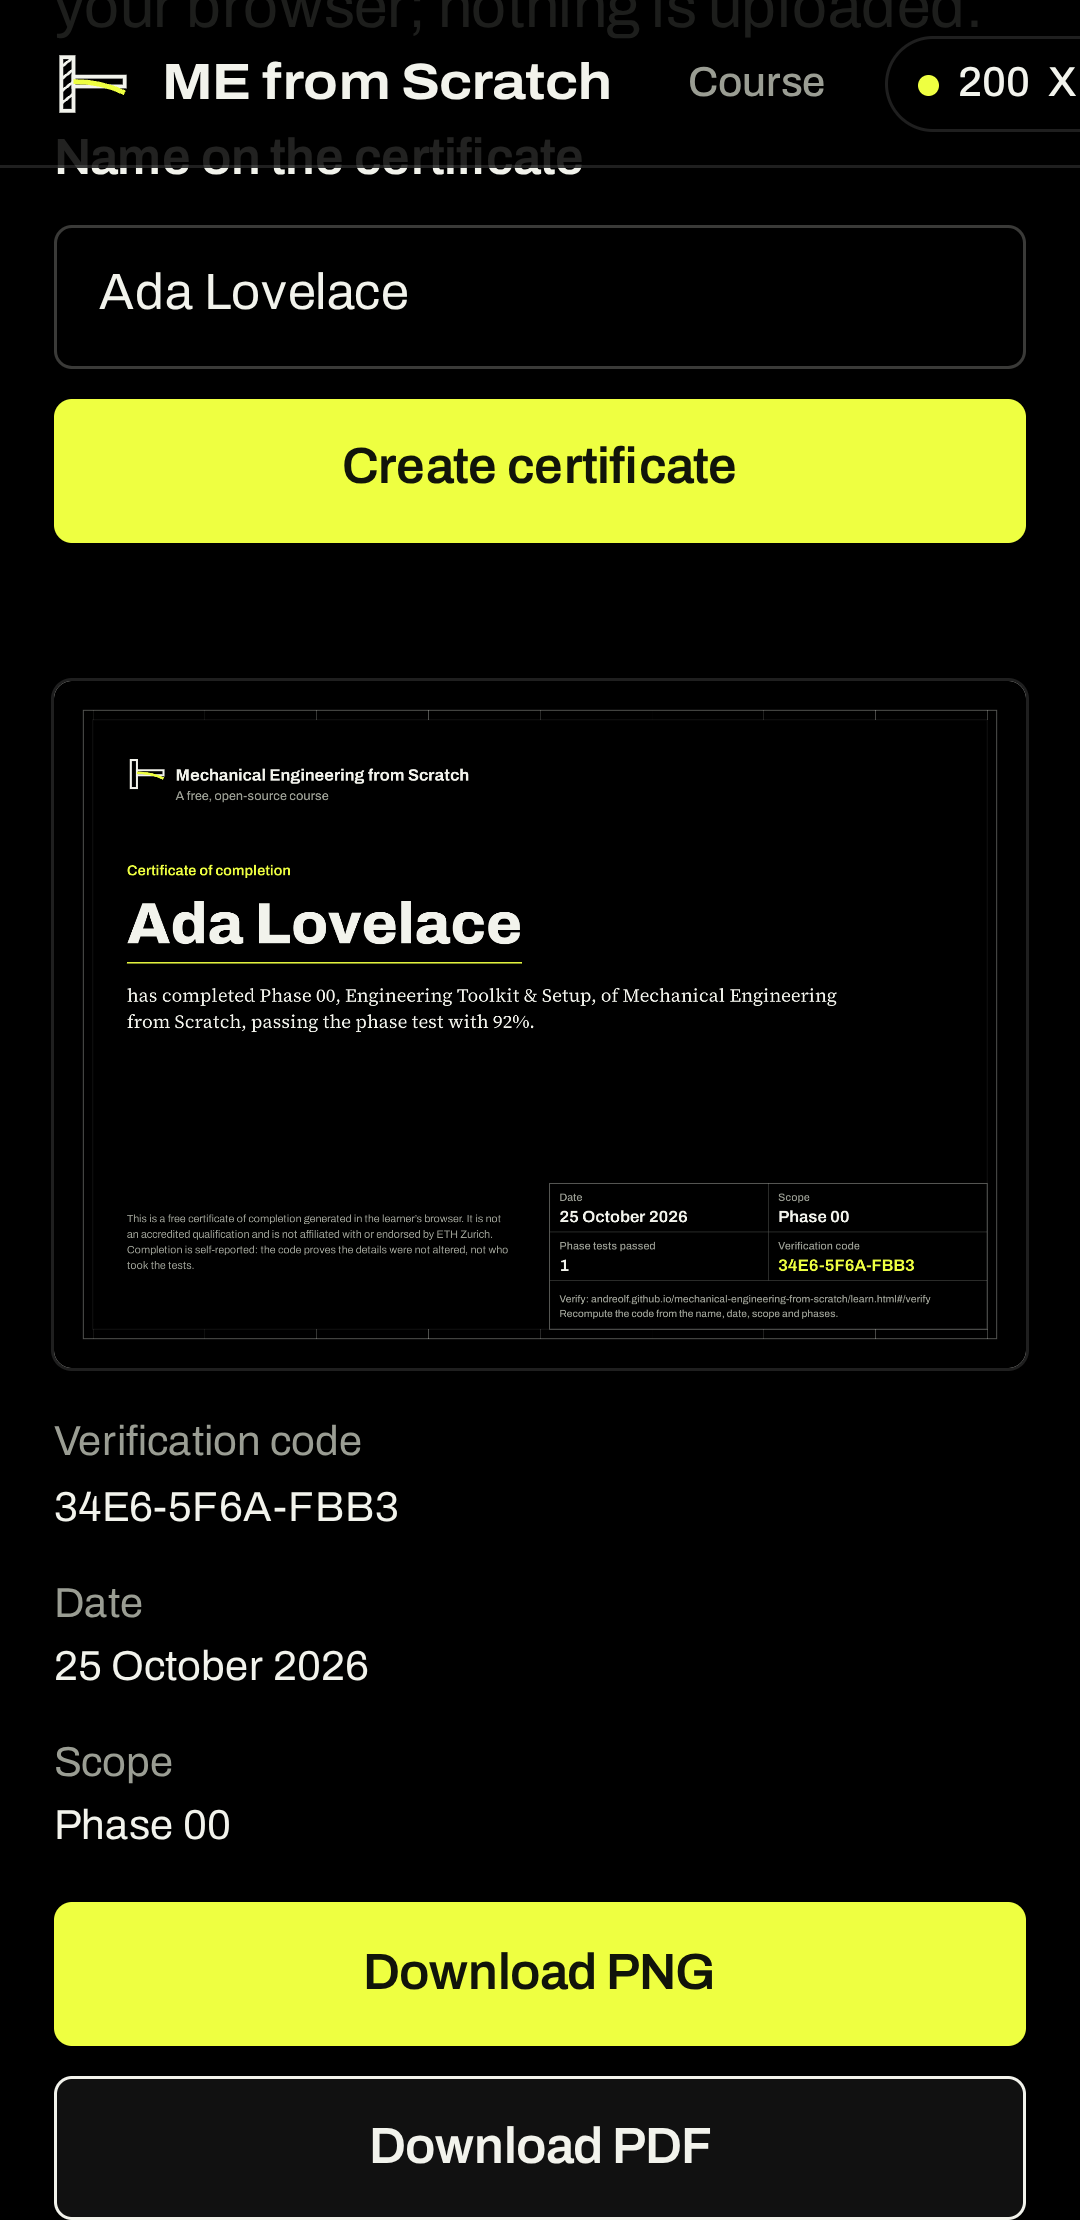
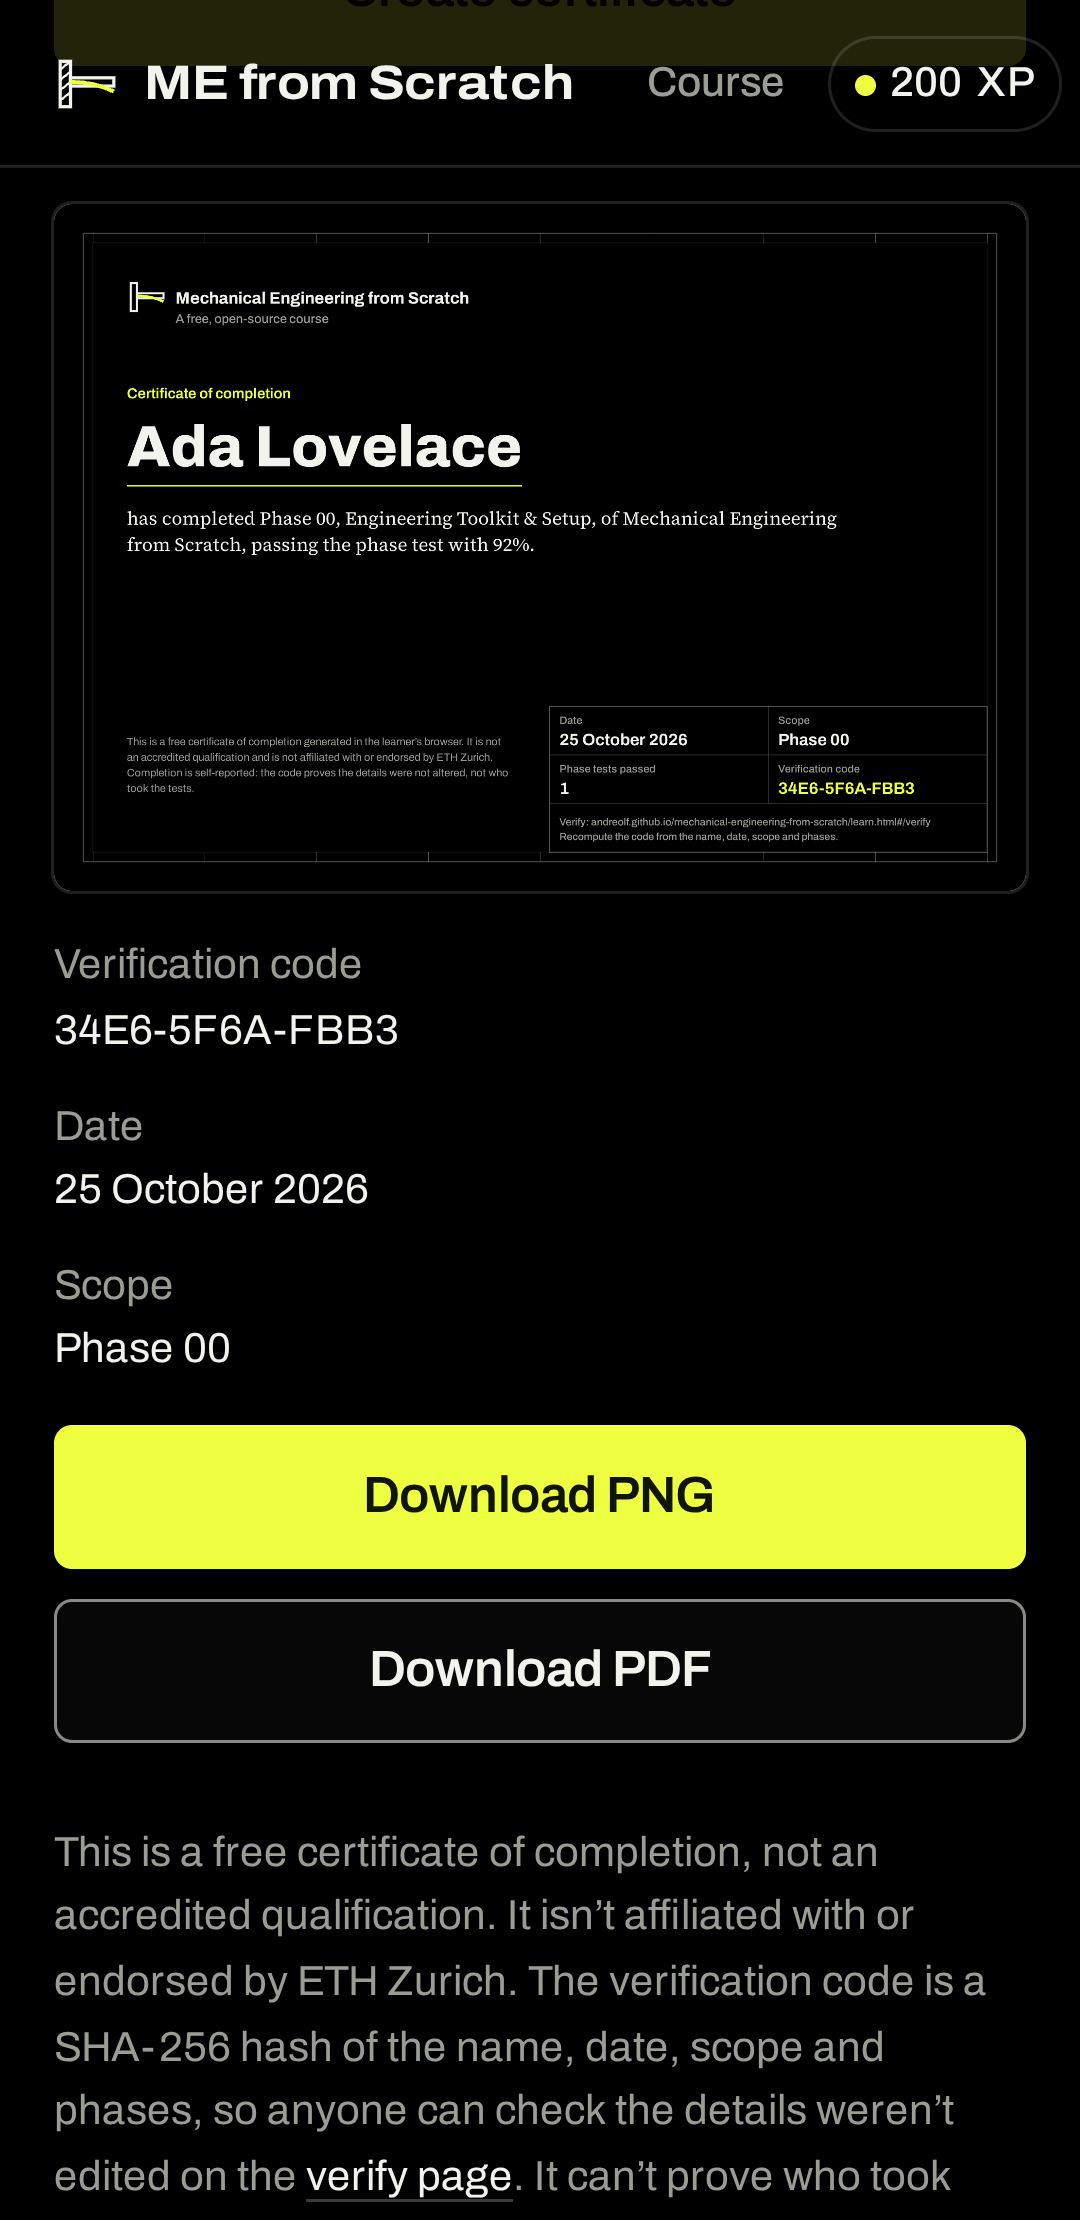
Fix 360px footer brand overflow and nav chip fit; stricter overflow check

diff --git a/site/tests/learn.spec.js b/site/tests/learn.spec.js
@@ -134,6 +134,9 @@ test.describe('Lessons, quizzes, progress and certificates', () => {
     expect(pdfBytes.subarray(-6).toString()).toContain('%%EOF');
     await page.locator('#cert-canvas').scrollIntoViewIfNeeded();
     expect(await noOverflow(page)).toBe(true);
+    // nav chip with 3-digit XP must stay inside the viewport
+    const chip = await page.locator('.xp-chip').first().boundingBox();
+    expect(chip.x + chip.width).toBeLessThanOrEqual(page.viewportSize().width - 4);
     await page.screenshot({ path: shot(info, 'certificate') });
     if (info.project.name === 'desktop') fs.writeFileSync(shot(info, 'certificate-image'), pngBytes);
     // verify page recomputes the same code from the printed details

diff --git a/site/tests/helpers.js b/site/tests/helpers.js
@@ -9,7 +9,9 @@ export function watchConsole(page) {
   return errors;
 }
 export async function noOverflow(page) {
-  const m = await page.evaluate(() => ({ iw: window.innerWidth, sw: document.documentElement.scrollWidth, bw: document.body.scrollWidth }));
+  // innerWidth grows with the content on emulated mobile, so compare against the configured viewport
+  const vw = page.viewportSize()?.width;
+  const m = await page.evaluate((vw) => ({ iw: Math.min(vw || 1e9, document.documentElement.clientWidth), sw: document.documentElement.scrollWidth, bw: document.body.scrollWidth }), vw);
   return m.sw <= m.iw + 1 && m.bw <= m.iw + 1 ? true : m;
 }
 export async function canvasHasContent(page, testid) {

diff --git a/site/src/styles/base.css b/site/src/styles/base.css
@@ -106,3 +106,14 @@ input[type=checkbox], input[type=radio] { accent-color: var(--lime); width: 20px
 }
 
 @media (prefers-reduced-motion: reduce) { *, *::before, *::after { transition-duration: 0.01ms !important; animation-duration: 0.01ms !important; scroll-behavior: auto !important; } }
+
+/* Small phones: keep brand, Course link and a 4-5 digit XP chip on one line at 360px */
+@media (max-width: 399px) {
+  .nav .brand { gap: 8px; font-size: 0.95rem; }
+  .nav .brand-mark { width: 22px; height: 22px; }
+  .nav-links a { padding: 0 8px; }
+  .nav-links a.xp-link { padding-left: 2px; }
+  .xp-chip { padding: 0 8px; gap: 5px; }
+}
+
+.footer .brand { white-space: normal; }
